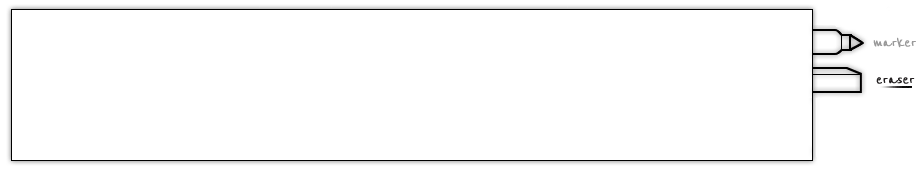
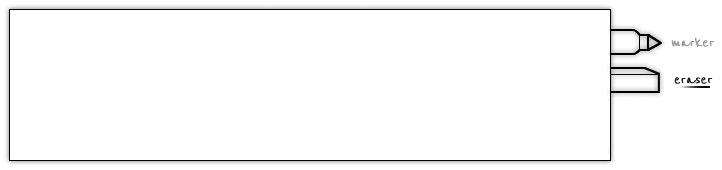
locating fractions drawing pad stuff is now smaller to fit on the iPad better

Changed region(s): [[0.8227, 0.0294, 1.0, 0.9706]]

diff --git a/public/javascripts/drawing_pad_LF.js b/public/javascripts/drawing_pad_LF.js
@@ -30,7 +30,7 @@ function prepareCanvasLF(canvas_element, question_id, assessing, editing, drawin
 	var canvasY;
 	var mouseIsDragging = false;
 	var context;
-	var canvasWidth = 924;
+	var canvasWidth = 722;
 	var canvasHeight = 170;
 	var padding = 25;
 	var lineWidth = 8;
@@ -51,9 +51,9 @@ function prepareCanvasLF(canvas_element, question_id, assessing, editing, drawin
 	var curColor = colorBlue;
 	var curTool = "marker";
 	var curSize = "normal";
-	var drawingAreaX = 11;
+	var drawingAreaX = 10;
 	var drawingAreaY = 10;
-	var drawingAreaWidth = 801;
+	var drawingAreaWidth = 600;
 	var drawingAreaHeight = 150;
 	var toolHotspotStartY = 55;
 	var toolHotspotHeight = 38;
